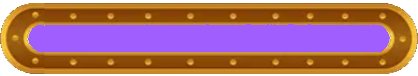
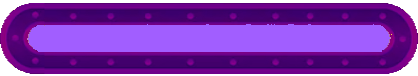
siu

diff --git a/src/main/java/MainPanel.java b/src/main/java/MainPanel.java
@@ -710,7 +710,7 @@ public class MainPanel extends JPanel {
         if(ls.getState() <100) {
             g.drawImage(hg, 0, 0, 1920, 1080, null);
             g.drawImage(ls.getHg(), 660, 860, 600, 80, null);
-            g.setColor(Color.green);
+            g.setColor(new Color(161,94,255));
             g.fillRect(713,885,ls.getState()*5,30);
             g.setColor(Color.WHITE);
             g.setFont(new Font("Verdana",1,25));
@@ -723,7 +723,7 @@ public class MainPanel extends JPanel {
             } catch (IOException e) {
                 e.printStackTrace();
             }
-            g.setColor(Color.WHITE);
+            g.setColor(new Color(161,94,255));
             g.fillRect(713,885,ls.getState()*5,30);
             g.setColor(Color.WHITE);
             g.setFont(new Font("Verdana",1,25));
